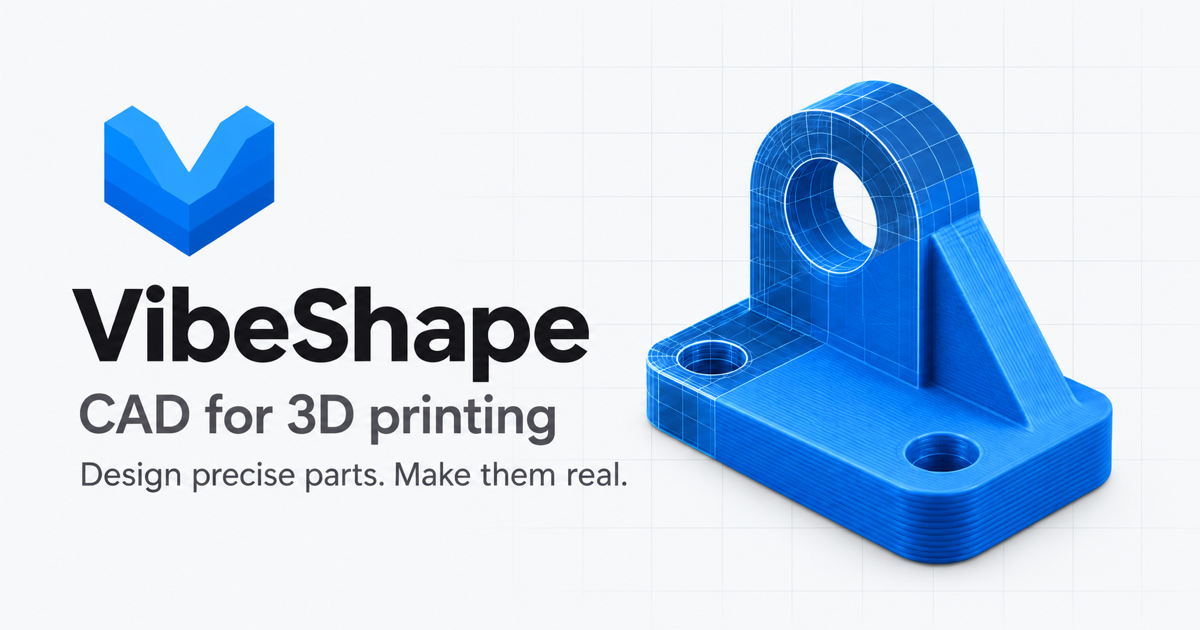
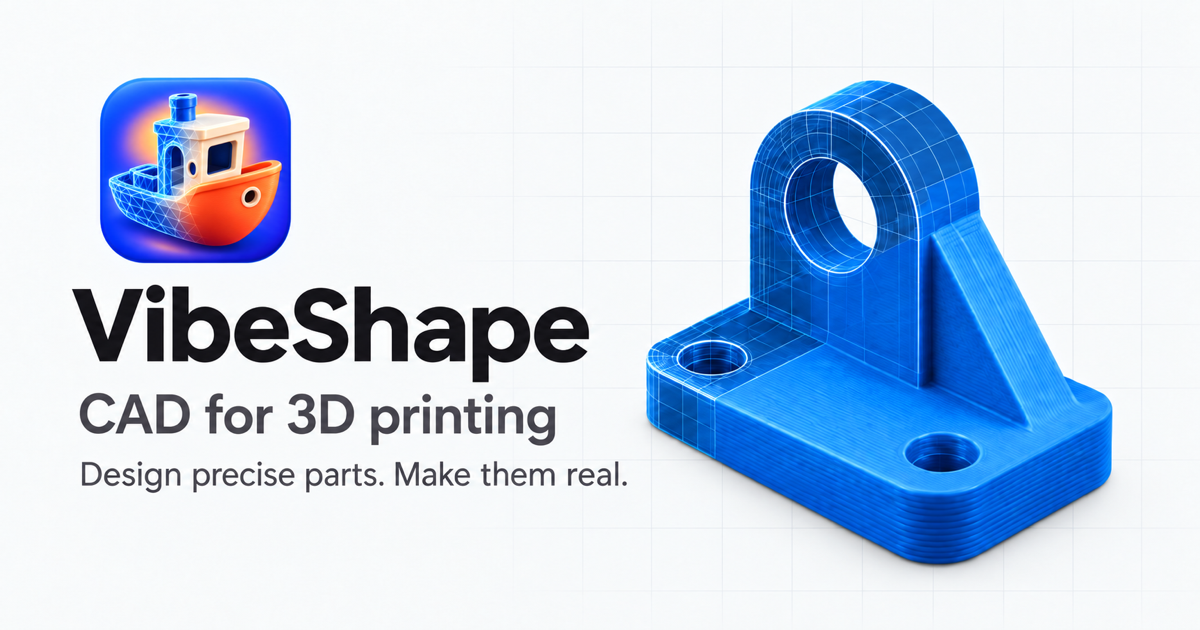
design: unify Benchy branding across site and desktop (#359)
VibeShape now uses one Benchy wireframe-to-solid identity across the
macOS icon/installer, web favicons, site header/footer, wordmark, and
social previews. Asset URLs carry a new revision so browsers and link
previews request the updated artwork.

The downloads section links to the v0.1.5 Apple Silicon DMG and release
checksums, states the actual ad-hoc/non-notarized delivery status, and
removes obsolete claims that installers are unpublished. Supplemental
links sit above the primary actions so all three download buttons align
at the bottom of their cards.

The application manifest and generated Bun workspace lock entry both
record version 0.1.5; dependency resolutions are unchanged.

Validation: site build, owning typecheck, scoped Biome, changed-code
Fallow, and all 22 site browser scenarios passed. The downloads scenario
passed again after updating the release version. Frozen lockfile
validation and the critical-dependency audit passed. Light/dark and
narrow-layout visual checks passed; all three desktop actions share a 48
px height and the same vertical position. Exact-source 0.1.5 packaging,
signature/image verification, both packaged application tests, and
required CI passed. The actual ICNS matches the visually accepted Benchy
artwork.

diff --git a/tests/site/presentation.spec.ts b/tests/site/presentation.spec.ts
@@ -180,7 +180,7 @@ test("the presentation explains the workflow and links to the real editor", asyn
   )
   await expect(page.locator('meta[property="og:image"]').first()).toHaveAttribute(
     "content",
-    "https://vibeshape.hello-world.cz/brand/og-light.png",
+    "https://vibeshape.hello-world.cz/brand/og-light.png?v=benchy-mesh",
   )
   await page.getByRole("button", { name: "Sketch", exact: true }).click()
   await expect(page.getByRole("heading", { name: "Start with what has to fit." })).toBeVisible()
@@ -233,16 +233,29 @@ test("every documentation article supports direct links and return navigation", 
   await expect(page.getByRole("heading", { level: 1 })).toContainText("CAD for things")
 })
 
-test("downloads distinguish missing installers from usable installation paths", async ({
-  page,
-}) => {
+test("downloads show the published Mac release with aligned primary actions", async ({ page }) => {
+  await page.setViewportSize({ width: 1440, height: 900 })
   await page.goto("/#downloads")
   const downloads = page.locator("#downloads")
-  await expect(downloads.getByText("Not published yet", { exact: true })).toBeVisible()
-  await expect(downloads.getByRole("link", { name: "Check GitHub releases" })).toHaveAttribute(
+  await expect(downloads.getByText("macOS · Apple Silicon · v0.1.5", { exact: true })).toBeVisible()
+  await expect(downloads.getByRole("link", { name: "All releases & checksums" })).toHaveAttribute(
     "href",
     "https://github.com/kolengri/VibeShape/releases",
   )
+  await expect(downloads.getByRole("link", { name: "Download for Apple Silicon" })).toHaveAttribute(
+    "href",
+    "https://github.com/kolengri/VibeShape/releases/download/desktop-v0.1.5/VibeShape-0.1.5-mac-arm64.dmg",
+  )
+  await expect(downloads).toContainText("not notarized by Apple")
+  const actions = ["Open VibeShape", "Local installation guide", "Download for Apple Silicon"]
+  const bounds = await Promise.all(
+    actions.map((name) => downloads.getByRole("link", { name, exact: true }).boundingBox()),
+  )
+  for (const boundsAtIndex of bounds) {
+    expect(boundsAtIndex).not.toBeNull()
+    expect(boundsAtIndex?.y).toBeCloseTo(bounds[0]?.y ?? 0, 0)
+    expect(boundsAtIndex?.height).toBe(bounds[0]?.height)
+  }
   await expect(downloads.getByRole("link", { name: "macOS desktop build guide" })).toHaveAttribute(
     "href",
     "https://github.com/kolengri/VibeShape/blob/main/docs/desktop-macos.md",
@@ -439,12 +452,12 @@ test.describe("social previews", () => {
     )
     await expect(page.locator('meta[name="twitter:image"]')).toHaveAttribute(
       "content",
-      "https://vibeshape.hello-world.cz/brand/og-light.png",
+      "https://vibeshape.hello-world.cz/brand/og-light.png?v=benchy-mesh",
     )
     await expect(page.locator('meta[property="og:image:width"]')).toHaveCount(2)
     await expect(page.locator('meta[property="og:image:height"]')).toHaveCount(2)
     for (const [index, theme] of ["light", "dark"].entries()) {
-      const url = `https://vibeshape.hello-world.cz/brand/og-${theme}.png`
+      const url = `https://vibeshape.hello-world.cz/brand/og-${theme}.png?v=benchy-mesh`
       await expect(images.nth(index)).toHaveAttribute("content", url)
       await expect(page.locator('meta[property="og:image:width"]').nth(index)).toHaveAttribute(
         "content",

diff --git a/apps/site/index.html b/apps/site/index.html
@@ -11,25 +11,28 @@
     <meta property="og:site_name" content="VibeShape" />
     <meta property="og:locale" content="en_US" />
     <meta property="og:url" content="https://vibeshape.hello-world.cz/" />
-    <meta property="og:image" content="https://vibeshape.hello-world.cz/brand/og-light.png" />
-    <meta property="og:image:secure_url" content="https://vibeshape.hello-world.cz/brand/og-light.png" />
+    <meta property="og:image" content="https://vibeshape.hello-world.cz/brand/og-light.png?v=benchy-mesh" />
+    <meta property="og:image:secure_url" content="https://vibeshape.hello-world.cz/brand/og-light.png?v=benchy-mesh" />
     <meta property="og:image:type" content="image/png" />
     <meta property="og:image:width" content="1200" />
     <meta property="og:image:height" content="630" />
-    <meta property="og:image:alt" content="VibeShape CAD for 3D printing: blue mechanical bracket on a light blueprint grid." />
-    <meta property="og:image" content="https://vibeshape.hello-world.cz/brand/og-dark.png" />
-    <meta property="og:image:secure_url" content="https://vibeshape.hello-world.cz/brand/og-dark.png" />
+    <meta property="og:image:alt" content="VibeShape Benchy wireframe-to-solid logo and blue mechanical bracket on a light blueprint grid." />
+    <meta property="og:image" content="https://vibeshape.hello-world.cz/brand/og-dark.png?v=benchy-mesh" />
+    <meta property="og:image:secure_url" content="https://vibeshape.hello-world.cz/brand/og-dark.png?v=benchy-mesh" />
     <meta property="og:image:type" content="image/png" />
     <meta property="og:image:width" content="1200" />
     <meta property="og:image:height" content="630" />
-    <meta property="og:image:alt" content="VibeShape CAD for 3D printing: blue mechanical bracket on a dark blueprint grid." />
+    <meta property="og:image:alt" content="VibeShape Benchy wireframe-to-solid logo and blue mechanical bracket on a dark blueprint grid." />
     <meta name="twitter:card" content="summary_large_image" />
     <meta name="twitter:title" content="VibeShape — Design precise parts. Make them real." />
     <meta name="twitter:description" content="Free, local-first CAD for 3D printing. Your browser. Your models. Your next idea." />
-    <meta name="twitter:image" content="https://vibeshape.hello-world.cz/brand/og-light.png" />
-    <meta name="twitter:image:alt" content="VibeShape CAD for 3D printing: blue mechanical bracket on a light blueprint grid." />
+    <meta name="twitter:image" content="https://vibeshape.hello-world.cz/brand/og-light.png?v=benchy-mesh" />
+    <meta name="twitter:image:alt" content="VibeShape Benchy wireframe-to-solid logo and blue mechanical bracket on a light blueprint grid." />
     <link rel="canonical" href="https://vibeshape.hello-world.cz/" />
-    <link rel="icon" type="image/png" href="./favicon-32.png" />
+    <link rel="icon" href="./favicon.ico?v=benchy-mesh" sizes="16x16 32x32 48x48" />
+    <link rel="icon" type="image/png" href="./favicon-32.png?v=benchy-mesh" sizes="32x32" />
+    <link rel="icon" type="image/png" href="./favicon-192.png?v=benchy-mesh" sizes="192x192" />
+    <link rel="apple-touch-icon" href="./apple-touch-icon.png?v=benchy-mesh" sizes="180x180" />
     <title>VibeShape — CAD for things you can make</title>
   </head>
   <body>

diff --git a/apps/site/src/app.tsx b/apps/site/src/app.tsx
@@ -18,7 +18,14 @@ import {
 } from "lucide-react"
 import { type MouseEvent, type ReactNode, useEffect, useState, useSyncExternalStore } from "react"
 import { HeroVisual } from "./hero-visual"
-import { articles, editorUrl, referenceUrl, releasesUrl, repository } from "./links"
+import {
+  articles,
+  desktopDownloadUrl,
+  editorUrl,
+  referenceUrl,
+  releasesUrl,
+  repository,
+} from "./links"
 import { AnimatedScene, ConstructionPlanes, FeatureVisual, PrintVisual } from "./spatial-visuals"
 import { type WorkflowStage, WorkflowVisual } from "./workflow-visual"
 
@@ -91,7 +98,7 @@ function Header() {
           aria-label="VibeShape"
           className="flex shrink-0 items-center gap-2.5 text-xl font-semibold tracking-tight"
         >
-          <img src={assetUrl("brand/logo-mark.png")} alt="" width="32" height="32" />
+          <img src={assetUrl("brand/logo-mark.png?v=benchy-mesh")} alt="" width="32" height="32" />
           VibeShape
         </a>
         <nav aria-label={t("nav.label")} className="hidden items-center gap-7 text-sm md:flex">
@@ -492,16 +499,16 @@ function Downloads() {
             <p className="mb-7 mt-3 flex-1 text-sm leading-relaxed text-muted-foreground">
               {t("localBody")}
             </p>
+            <a
+              href={referenceUrl("docs/desktop-macos.md")}
+              className="mb-4 text-sm text-primary hover:underline"
+            >
+              {t("desktop")}
+            </a>
             <ActionLink href="#docs/local-installation" secondary>
               {t("localAction")}
               <ArrowRight size={16} />
             </ActionLink>
-            <a
-              href={referenceUrl("docs/desktop-macos.md")}
-              className="mt-4 text-sm text-primary hover:underline"
-            >
-              {t("desktop")}
-            </a>
           </div>
           <div className="flex flex-col rounded-xl border border-border bg-background p-7">
             <Download size={24} strokeWidth={1.5} className="mb-8 text-muted-foreground" />
@@ -510,8 +517,11 @@ function Downloads() {
             <p className="mb-7 mt-3 flex-1 text-sm leading-relaxed text-muted-foreground">
               {t("installerBody")}
             </p>
-            <ActionLink href={releasesUrl} secondary>
+            <a href={releasesUrl} className="mb-4 text-sm text-primary hover:underline">
               {t("releases")}
+            </a>
+            <ActionLink href={desktopDownloadUrl} secondary>
+              {t("desktopAction")}
               <ArrowUpRight size={16} />
             </ActionLink>
           </div>
@@ -643,7 +653,12 @@ function Footer() {
             href="#overview"
             className="flex items-center gap-2 text-lg font-semibold tracking-tight"
           >
-            <img src={assetUrl("brand/logo-mark.png")} alt="" width="25" height="25" />
+            <img
+              src={assetUrl("brand/logo-mark.png?v=benchy-mesh")}
+              alt=""
+              width="25"
+              height="25"
+            />
             VibeShape
           </a>
           <p className="mt-3 text-xs text-muted-foreground">{t("line")}</p>

diff --git a/apps/web/index.html b/apps/web/index.html
@@ -18,14 +18,14 @@
     <meta property="og:url" content="https://vibeshape-greg.pages.dev/" />
     <meta
       property="og:image"
-      content="https://vibeshape-greg.pages.dev/brand/og-dark.png"
+      content="https://vibeshape-greg.pages.dev/brand/og-dark.png?v=benchy-mesh"
     />
     <meta property="og:image:type" content="image/png" />
     <meta property="og:image:width" content="1200" />
     <meta property="og:image:height" content="630" />
     <meta
       property="og:image:alt"
-      content="VibeShape logo beside a blue bracket transitioning from CAD wireframe to 3D-printed layers."
+      content="VibeShape Benchy wireframe-to-solid logo beside a blue bracket transitioning from CAD wireframe to 3D-printed layers."
     />
     <meta name="twitter:card" content="summary_large_image" />
     <meta name="twitter:title" content="VibeShape — CAD for 3D printing" />
@@ -35,16 +35,16 @@
     />
     <meta
       name="twitter:image"
-      content="https://vibeshape-greg.pages.dev/brand/og-dark.png"
+      content="https://vibeshape-greg.pages.dev/brand/og-dark.png?v=benchy-mesh"
     />
     <meta
       name="twitter:image:alt"
-      content="VibeShape logo beside a blue bracket transitioning from CAD wireframe to 3D-printed layers."
+      content="VibeShape Benchy wireframe-to-solid logo beside a blue bracket transitioning from CAD wireframe to 3D-printed layers."
     />
-    <link rel="icon" href="/favicon.ico" sizes="16x16 32x32 48x48" />
-    <link rel="icon" type="image/png" href="/favicon-32.png" sizes="32x32" />
-    <link rel="icon" type="image/png" href="/favicon-192.png" sizes="192x192" />
-    <link rel="apple-touch-icon" href="/apple-touch-icon.png" sizes="180x180" />
+    <link rel="icon" href="/favicon.ico?v=benchy-mesh" sizes="16x16 32x32 48x48" />
+    <link rel="icon" type="image/png" href="/favicon-32.png?v=benchy-mesh" sizes="32x32" />
+    <link rel="icon" type="image/png" href="/favicon-192.png?v=benchy-mesh" sizes="192x192" />
+    <link rel="apple-touch-icon" href="/apple-touch-icon.png?v=benchy-mesh" sizes="180x180" />
     <title>VibeShape</title>
   </head>
   <body>

diff --git a/apps/site/src/links.ts b/apps/site/src/links.ts
@@ -1,6 +1,7 @@
 export const repository = "https://github.com/kolengri/VibeShape"
 export const editorUrl = "https://cad.hello-world.cz"
 export const releasesUrl = `${repository}/releases`
+export const desktopDownloadUrl = `${repository}/releases/download/desktop-v0.1.5/VibeShape-0.1.5-mac-arm64.dmg`
 export const referenceUrl = (path: string) => `${repository}/blob/main/${path}`
 
 export const articles = [

diff --git a/docs/desktop-macos.md b/docs/desktop-macos.md
@@ -28,13 +28,13 @@ bundle; omitting it uses the same default bundle directory as `prepare:local`.
 The first Electron invocation downloads the pinned runtime and checks its upstream checksums.
 Packaging also uses macOS `sips`, `iconutil`, `codesign`, `hdiutil`, Swift/AppKit and
 `osascript`/Finder. It emits a runnable
-`VibeShape-darwin-arm64/VibeShape.app`, a `VibeShape-0.1.3-mac-arm64.dmg`, `SHA256SUMS`, and a
+`VibeShape-darwin-arm64/VibeShape.app`, a `VibeShape-0.1.5-mac-arm64.dmg`, `SHA256SUMS`, and a
 `desktop-build.json` recording the source commit, editor inventory, main/preload/MCP bundles and image digest.
 The same script accepts `x64`; that target requires its own actual Mac acceptance evidence before
 release. The local Apple Silicon artifact does not establish Intel compatibility.
 
 Every package generates a branded drag-to-Applications disk image. Its background reuses the
-calibration-tugboat artwork with an arrow between the app and Applications. The repository-owned
+Benchy wireframe-to-solid artwork with an arrow between the app and Applications. The repository-owned
 AppKit renderer creates a 144 dpi background; Finder sets the mounted image to a fixed icon view.
 Automation targets only the uniquely mounted staging folder, closes its own window and detaches
 the image before compression and verification. It does not change global Finder settings. An
@@ -43,15 +43,17 @@ the package rather than shipping an unformatted installer.
 
 The generated application icon master is `apps/web/public/brand/app-icon.png` (1024 px).
 Packaging exports all standard macOS icon sizes into the app's `.icns` resource. The browser
-favicon and Apple touch icon use the same original calibration-tugboat artwork.
+favicon and Apple touch icon use the same original Benchy wireframe-to-solid artwork.
 
 Open the disk image, copy `VibeShape.app` to Applications and launch it. The current local artifact
 is ad-hoc signed and verified, without Developer ID or notarization. Local ad-hoc signing leaves
 Hardened Runtime off because it has no Team ID for library validation; the Chromium renderer
 sandbox and context isolation remain enabled. A public signed/notarized release must use the
 appropriate Hardened Runtime signing policy with its Developer ID identity. Do not disable Gatekeeper or
-remove quarantine as part of the application workflow. Public distribution remains gated on
-signing/notarization and the repository's release compliance review.
+remove quarantine as part of the application workflow. The published Apple Silicon release channel
+currently uses this explicitly disclosed ad-hoc delivery type. Developer ID signing and notarization
+are required before describing a build as Apple-authenticated or notarized. Exact-source delivery and
+the repository's release compliance requirements still apply.
 
 ## Projects and lifecycle
 
@@ -192,12 +194,14 @@ offers an explicit download. The native Save dialog chooses its destination, pro
 window, and a completed verified image can be revealed in Finder. Quit VibeShape before replacing
 the installed app. The checker never silently installs or opens downloaded software.
 
-Release owners prepare a source-matched, reviewed build and complete signing/notarization and
-compliance checks before publishing a stable GitHub Release:
+Release owners prepare a source-matched build, complete its applicable runtime and compliance
+checks, and disclose its actual signing/notarization status before publishing a GitHub Release.
+The current Apple Silicon channel is ad-hoc signed and not notarized; it must not claim Developer ID
+authentication. A Developer ID release additionally requires its signing and notarization checks:
 
-- Tag: `desktop-v0.1.3` for desktop package version `0.1.3`.
-- Apple Silicon asset: `VibeShape-0.1.3-mac-arm64.dmg`.
-- Intel asset, only after target verification: `VibeShape-0.1.3-mac-x64.dmg`.
+- Tag: `desktop-v0.1.5` for desktop package version `0.1.5`.
+- Apple Silicon asset: `VibeShape-0.1.5-mac-arm64.dmg`.
+- Intel asset, only after target verification: `VibeShape-0.1.5-mac-x64.dmg`.
 - Upload the image as a GitHub release asset with an advertised `sha256:` digest and matching size.
 - Include checksums and corresponding-source provenance with the release.
 

diff --git a/docs/presentation-site.md b/docs/presentation-site.md
@@ -100,7 +100,7 @@ part of the domain setup handoff.
 
 - `apps/site/src/messages/en.json` owns typed English copy and introductory articles.
 - `apps/site/src/links.ts` owns public destinations and each article's canonical repository reference.
-- `apps/site/public/brand` reuses the editor's existing brand assets. The hero labels its image as
+- `apps/site/public/brand` reuses the editor's Benchy wireframe-to-solid brand assets. The hero labels its image as
   an illustration rather than an editor screenshot.
 - Documentation uses `#docs/<topic>` links; section links and browser Back work on static hosts.
 - The canonical technical documents remain under `docs/`; update introductory copy when those
@@ -108,14 +108,15 @@ part of the domain setup handoff.
 
 ## Downloads and release maintenance
 
-As verified on October 19, 2026, the public GitHub release contains an OCCT corresponding-source
-archive, not VibeShape desktop installers. The site states that installers are not published and
-links to source installation, portable package preparation, and the release index. It must not
-present the OCCT archive as an application download or claim Windows installer availability.
+The downloads section links to the Apple Silicon macOS DMG for desktop v0.1.5 and to the
+GitHub release index for release notes, checksums, and source provenance. The package is ad-hoc
+signed and is not notarized by Apple; the site states this beside the download. Intel Mac,
+Windows, and Linux installers are not published. The separate OCCT source archive is not an
+application installer.
 
-When application installers are published, update the availability text and date, add the verified
-platform/architecture asset links to `links.ts`, and update the download browser test. Keep build
-instructions distinct from ready-to-run downloads. The site does not fetch GitHub on visitor load.
+When publishing a desktop release, update the version and asset URL in `links.ts`, the typed
+English availability copy, and the download browser test in the same task. Verify the asset
+exists before deploying the site. The site does not fetch GitHub on visitor load.
 
 ## Static handoff
 
